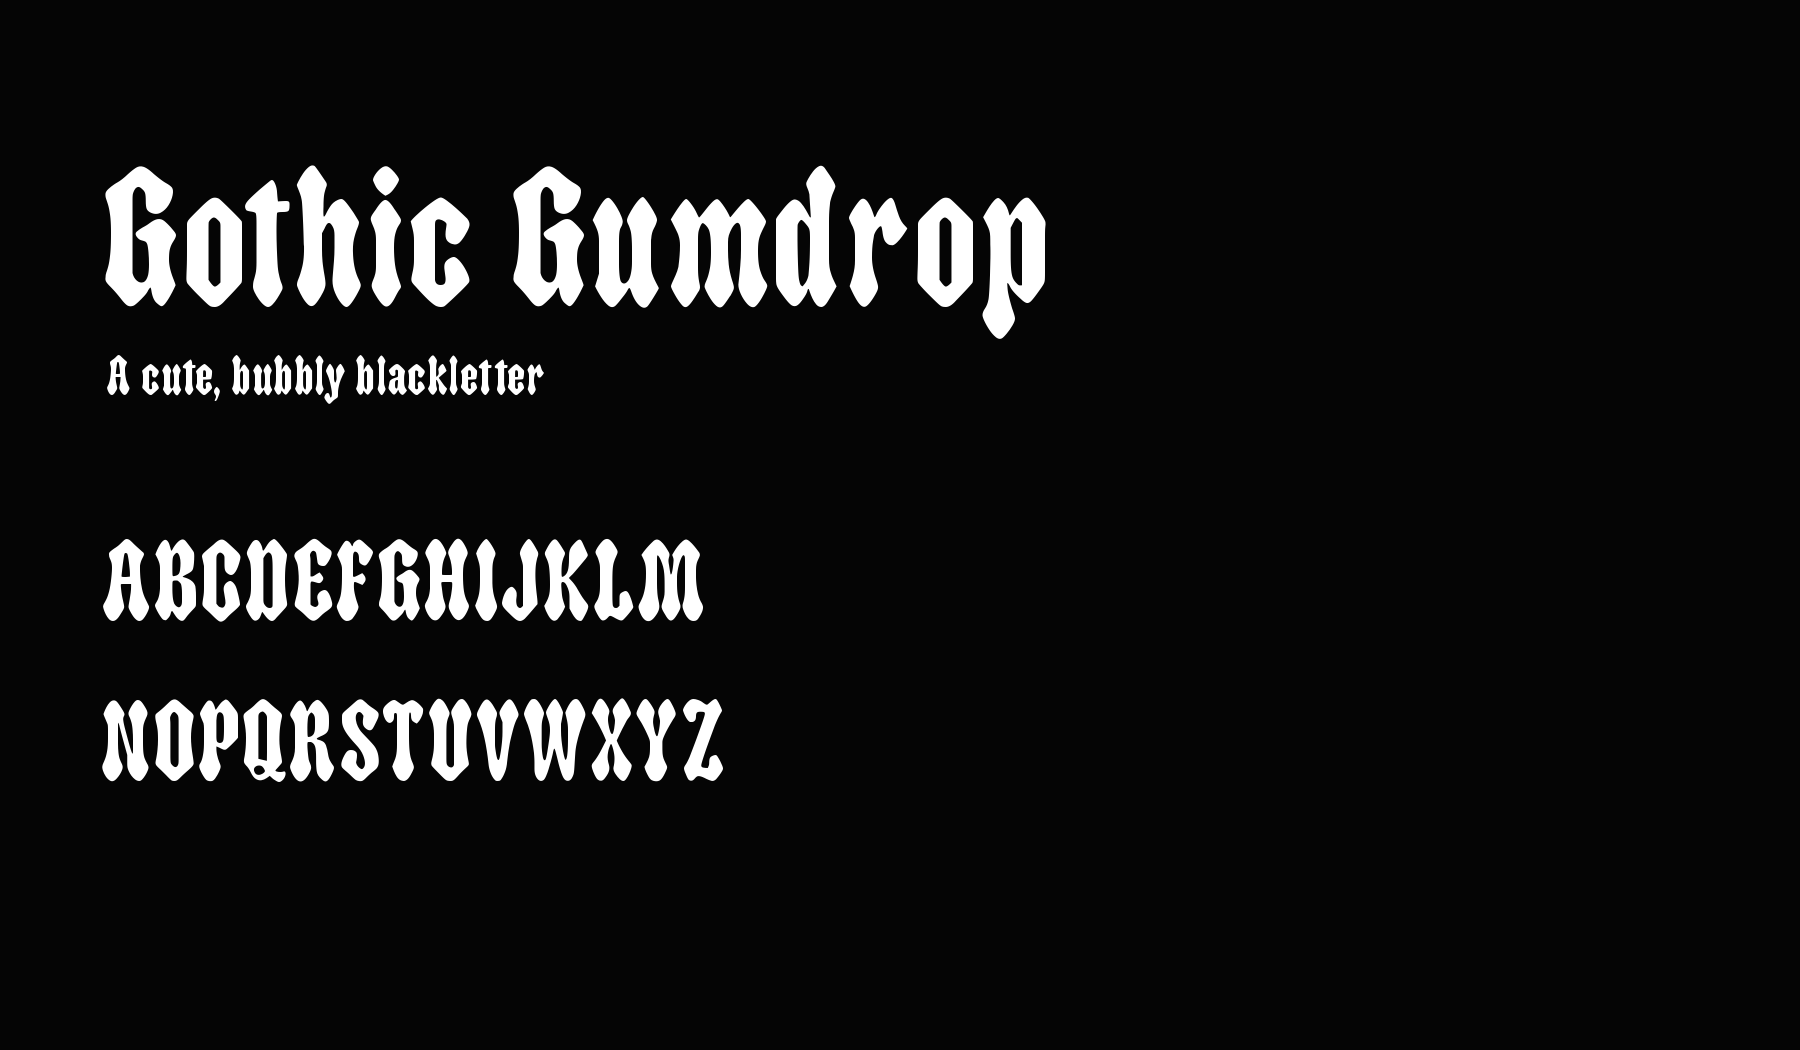
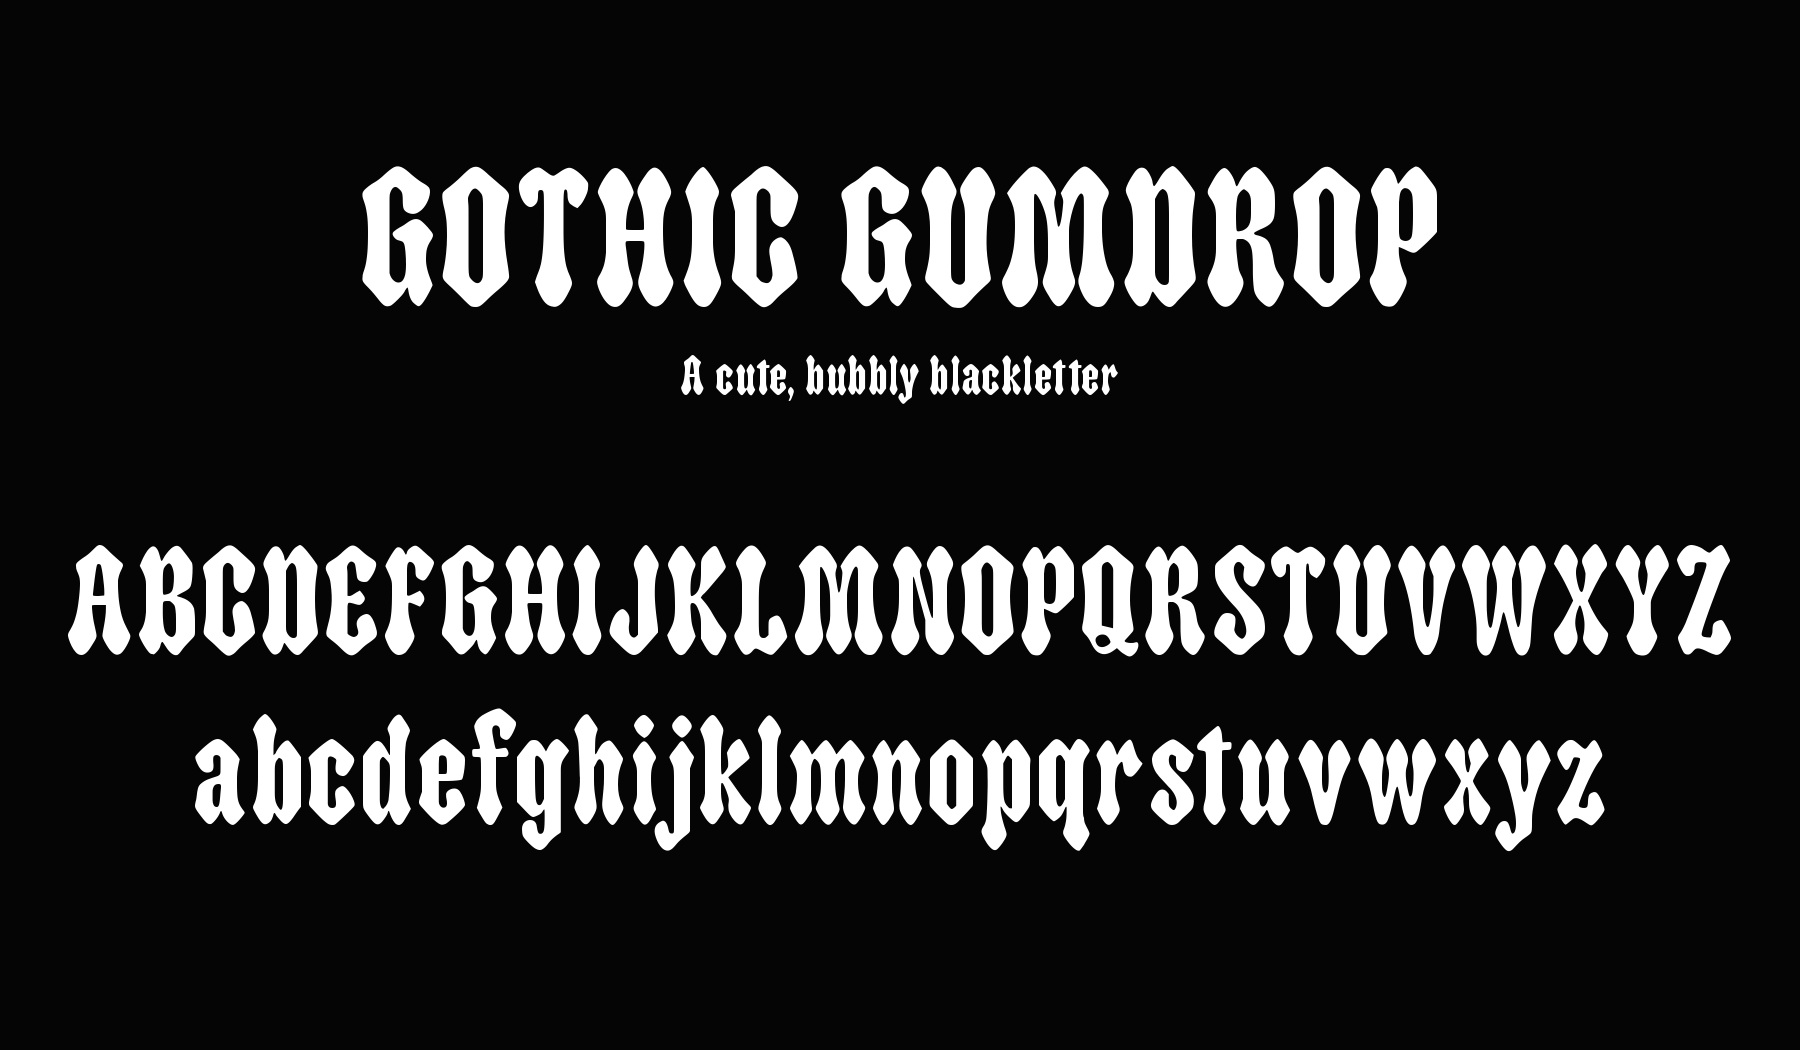
Update character set specimen layout

diff --git a/tools/make_specimen.py b/tools/make_specimen.py
@@ -14,15 +14,20 @@ def main() -> None:
     draw = ImageDraw.Draw(image)
 
     title_font = ImageFont.truetype(str(FONT_PATH), 205)
-    alphabet_font = ImageFont.truetype(str(FONT_PATH), 118)
+    alphabet_font = ImageFont.truetype(str(FONT_PATH), 160)
     description_font = ImageFont.truetype(str(FONT_PATH), 58)
 
     ink = "#ffffff"
 
-    draw.text((100, 115), "Gothic Gumdrop", font=title_font, fill=ink)
-    draw.text((106, 340), "A cute, bubbly blackletter", font=description_font, fill=ink)
-    draw.text((100, 510), "ABCDEFGHIJKLM", font=alphabet_font, fill=ink)
-    draw.text((100, 670), "NOPQRSTUVWXYZ", font=alphabet_font, fill=ink)
+    def draw_centered(text: str, y: int, font: ImageFont.FreeTypeFont) -> None:
+        left, _, right, _ = draw.textbbox((0, y), text, font=font)
+        x = (width - (right - left)) // 2
+        draw.text((x, y), text, font=font, fill=ink)
+
+    draw_centered("GOTHIC GUMDROP", 115, title_font)
+    draw_centered("A cute, bubbly blackletter", 340, description_font)
+    draw_centered("ABCDEFGHIJKLMNOPQRSTUVWXYZ", 505, alphabet_font)
+    draw_centered("abcdefghijklmnopqrstuvwxyz", 675, alphabet_font)
 
     OUT_PATH.parent.mkdir(parents=True, exist_ok=True)
     image.save(OUT_PATH)